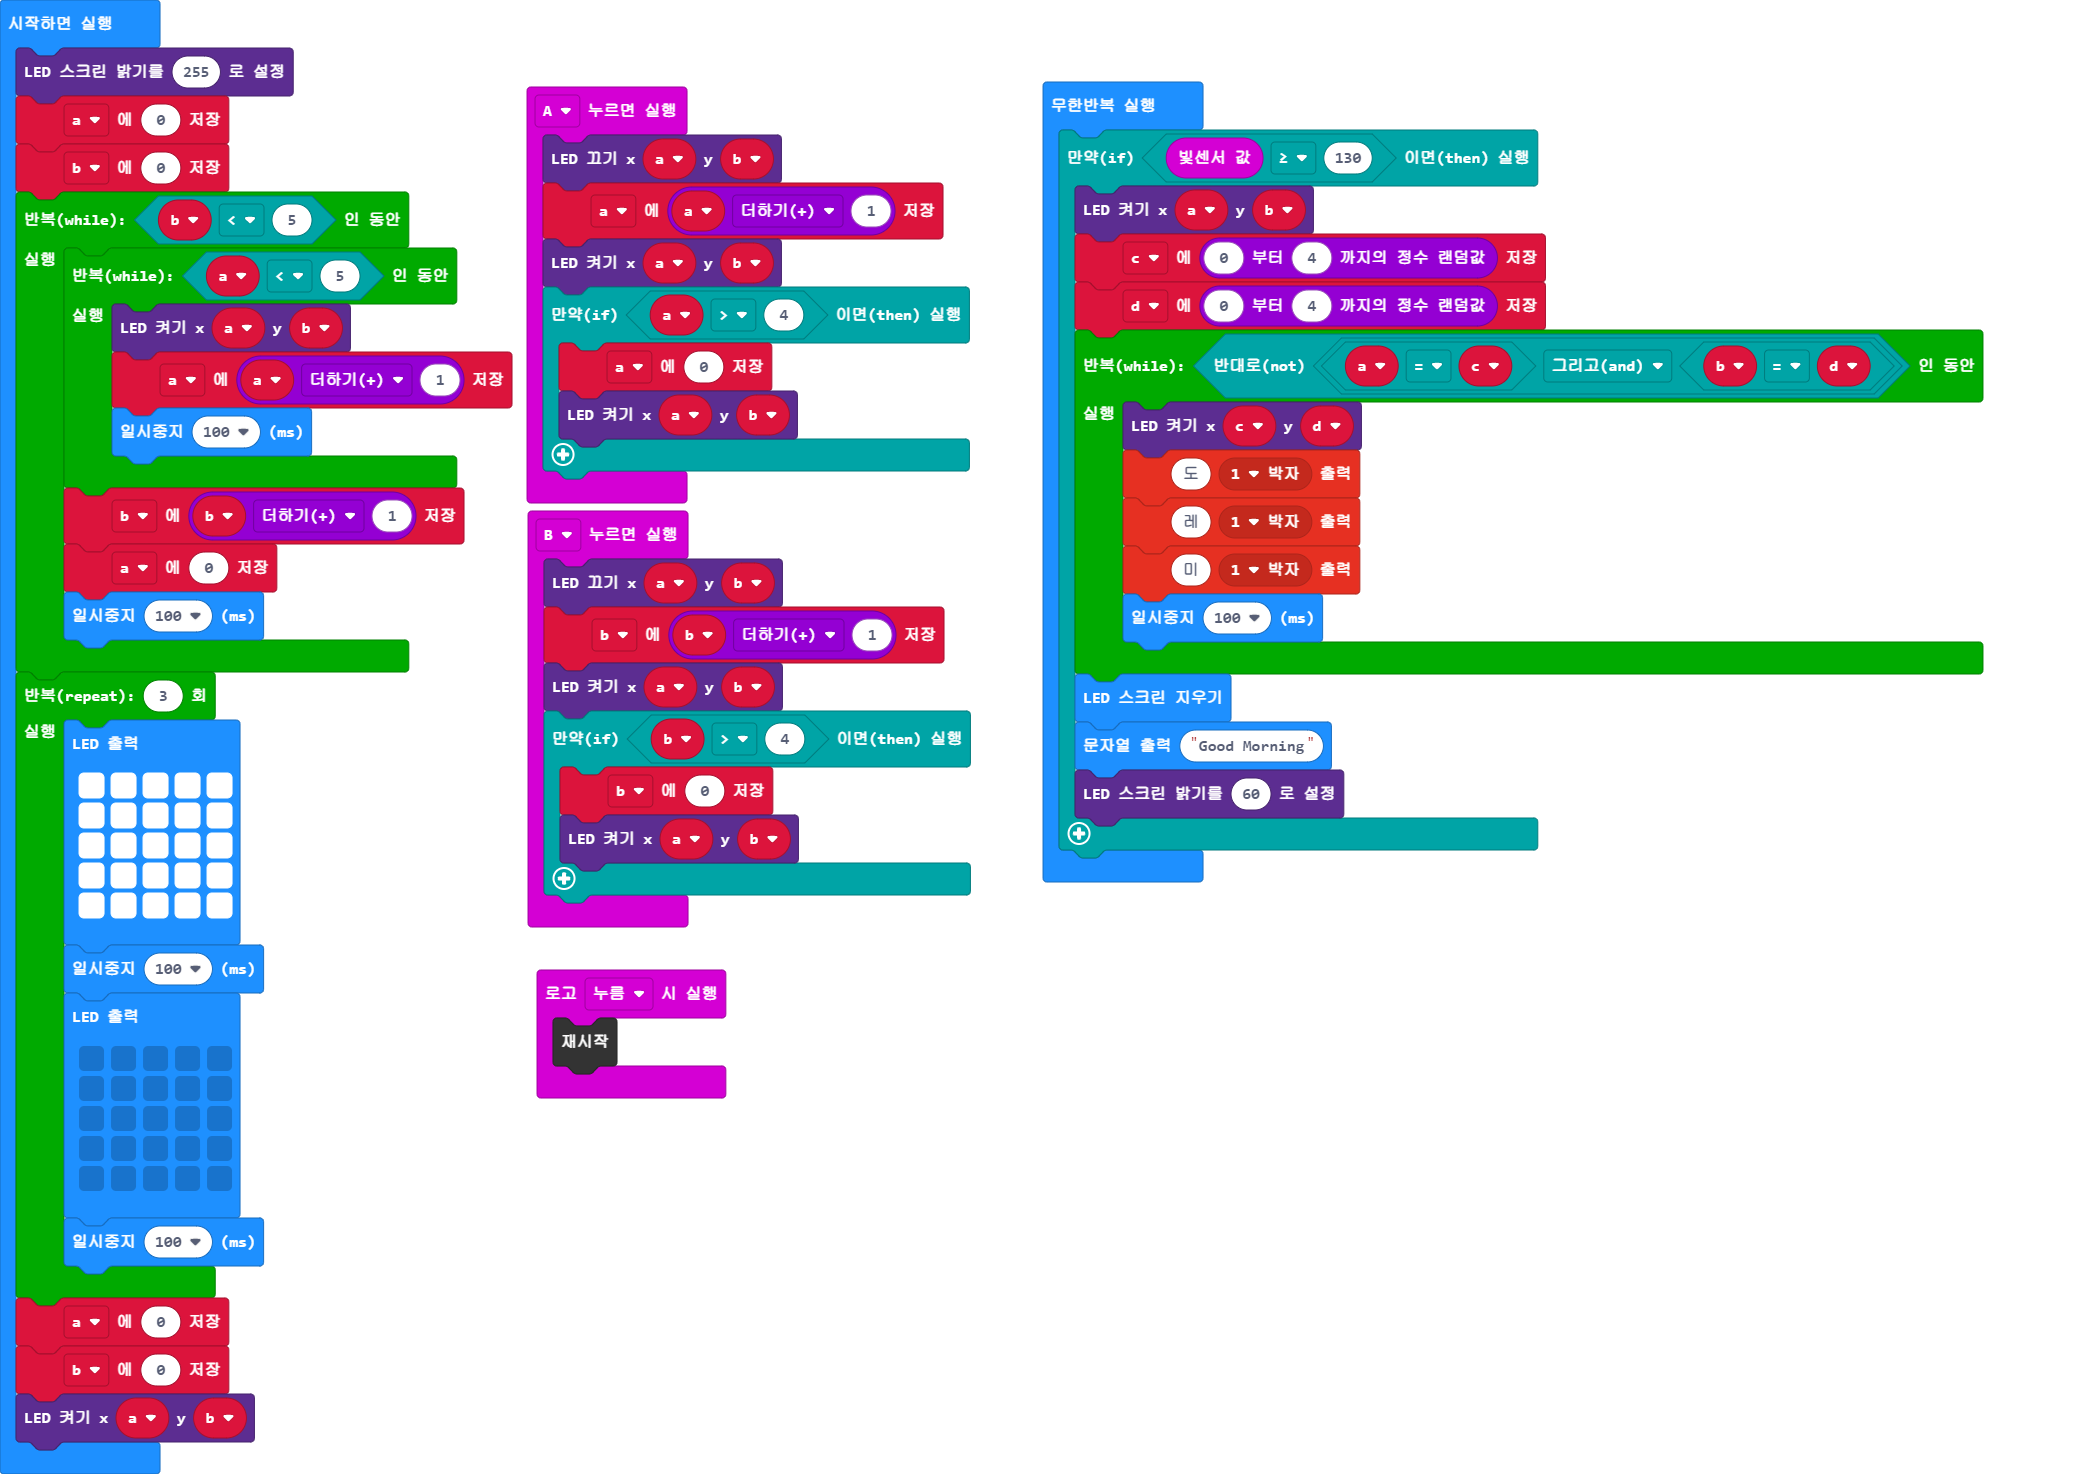
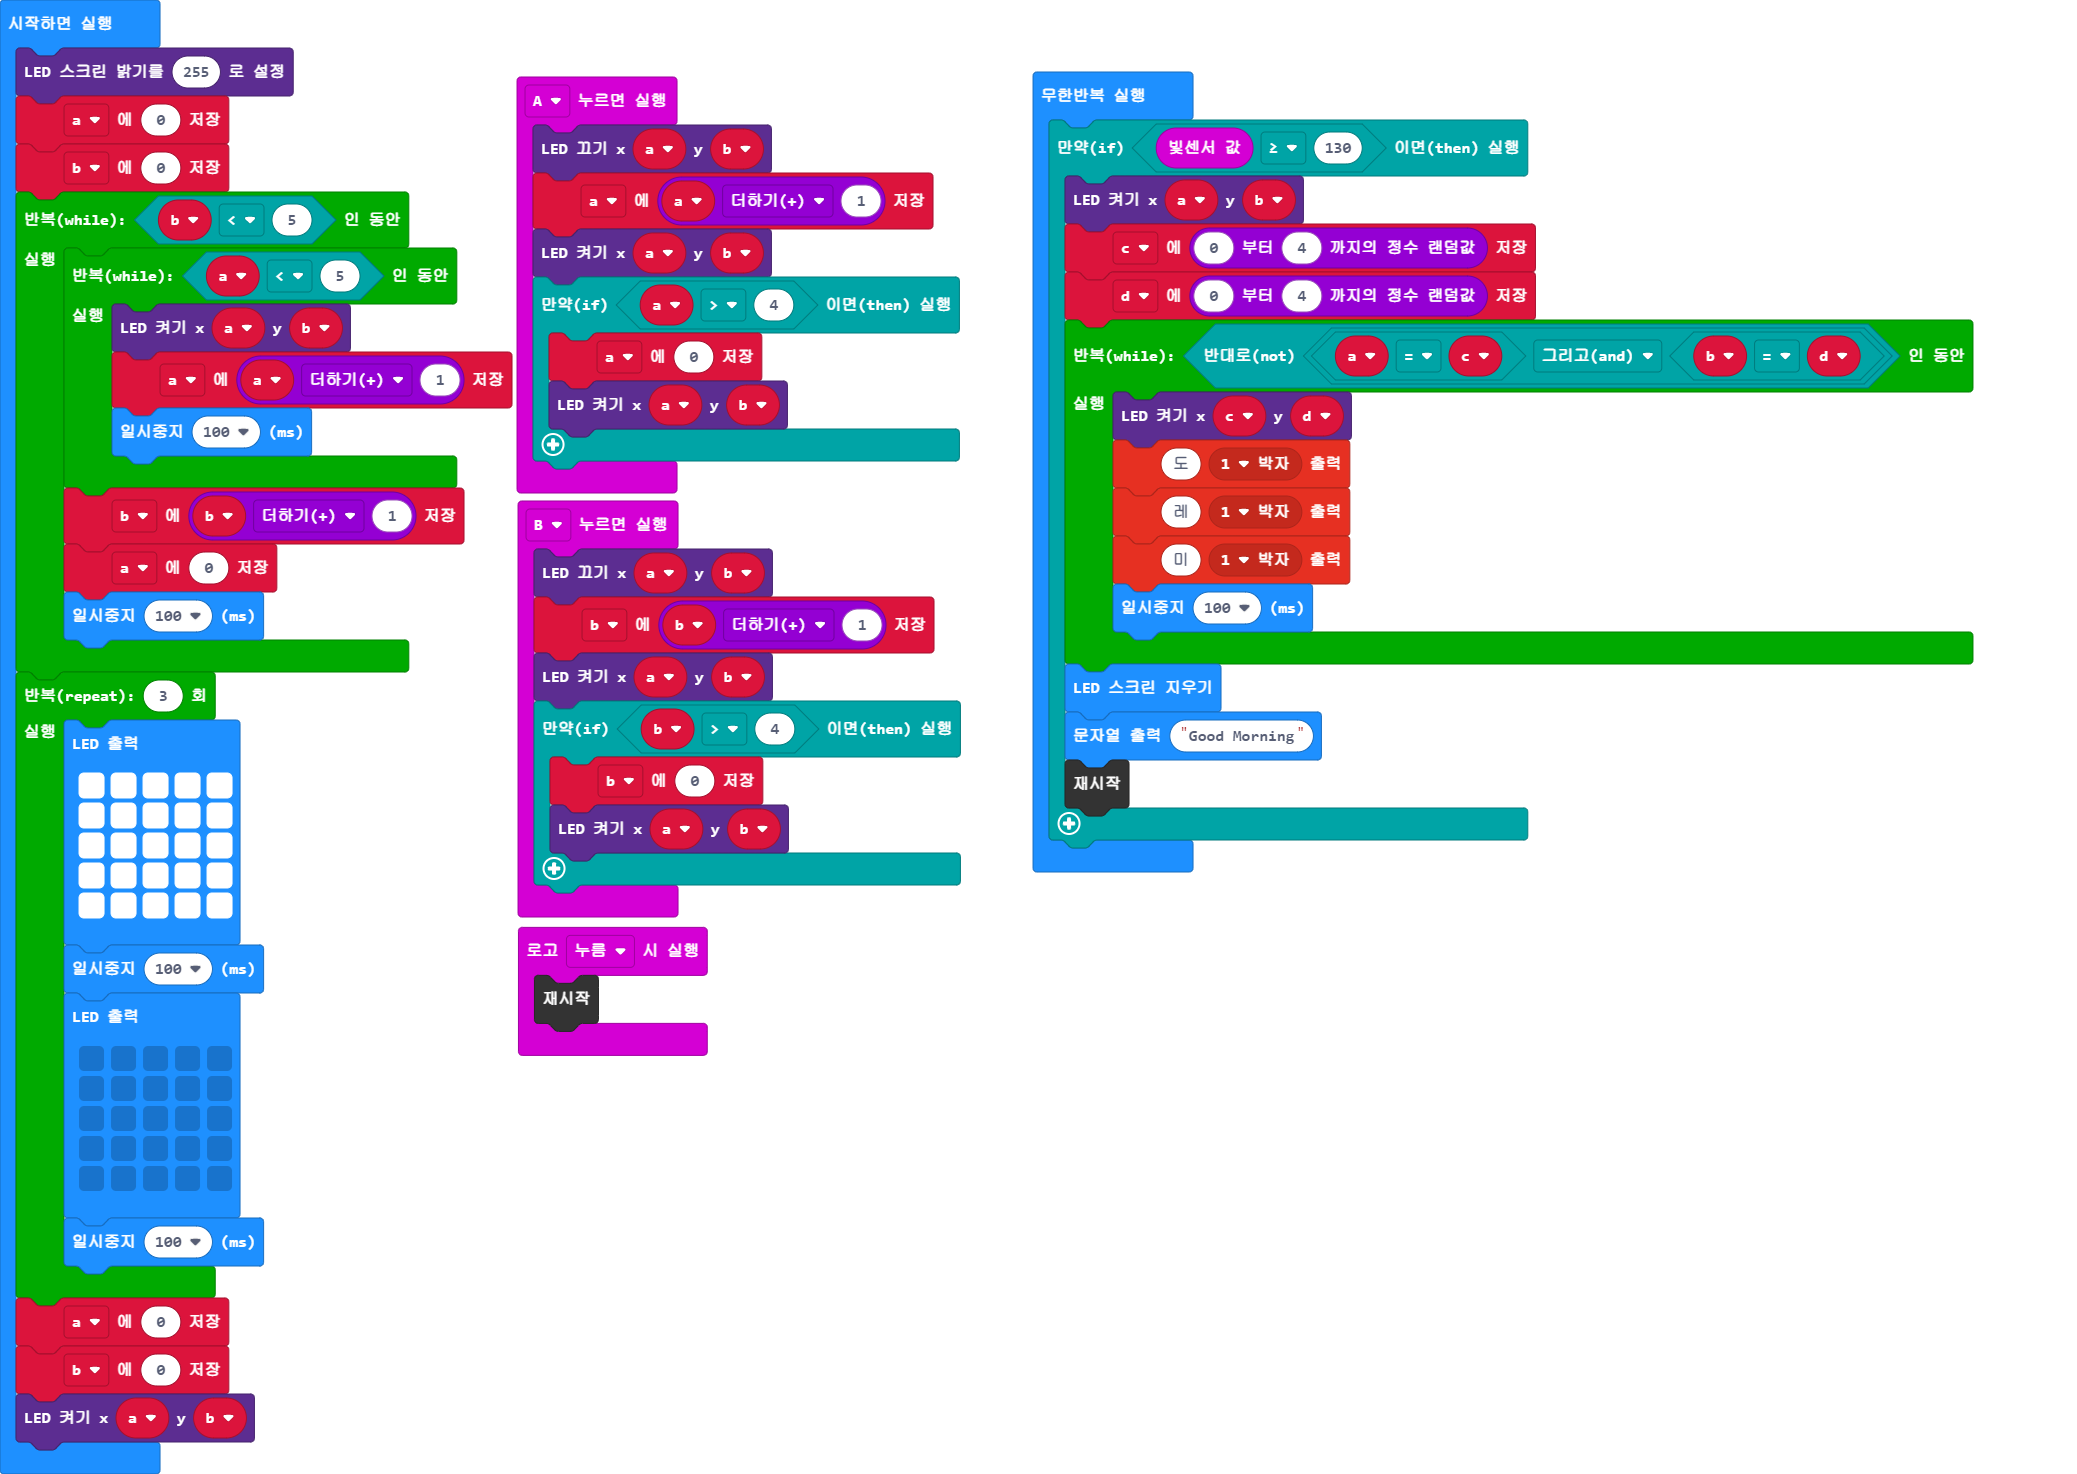
pxt.json, main.blocks, main.ts 업데이트하기

diff --git a/main.ts b/main.ts
@@ -1,8 +1,28 @@
-let a = 0
-let b = 0
-let c = 0
+input.onLogoEvent(TouchButtonEvent.Pressed, function () {
+    control.reset()
+})
+input.onButtonPressed(Button.A, function () {
+    led.unplot(a, b)
+    a = a + 1
+    led.plot(a, b)
+    if (a > 4) {
+        a = 0
+        led.plot(a, b)
+    }
+})
+input.onButtonPressed(Button.B, function () {
+    led.unplot(a, b)
+    b = b + 1
+    led.plot(a, b)
+    if (b > 4) {
+        b = 0
+        led.plot(a, b)
+    }
+})
 let d = 0
-
+let c = 0
+let b = 0
+let a = 0
 led.setBrightness(255)
 a = 0
 b = 0
@@ -34,30 +54,6 @@ for (let index = 0; index < 3; index++) {
         `)
     basic.pause(100)
 }
-
-input.onButtonPressed(Button.A, function () {
-    led.unplot(a, b)
-    a = a + 1
-    led.plot(a, b)
-    if (a > 4) {
-        a = 0
-        led.plot(a, b)
-    }
-})
-input.onButtonPressed(Button.B, function () {
-    led.unplot(a, b)
-    b = b + 1
-    led.plot(a, b)
-    if (b > 4) {
-        b = 0
-        led.plot(a, b)
-    }
-})
-
-input.onLogoEvent(TouchButtonEvent.Pressed, function () {
-    control.reset()
-})
-
 a = 0
 b = 0
 led.plot(a, b)
@@ -75,6 +71,6 @@ basic.forever(function () {
         }
         basic.clearScreen()
         basic.showString("Good Morning")
-        led.setBrightness(60)
+        control.reset()
     }
 })
